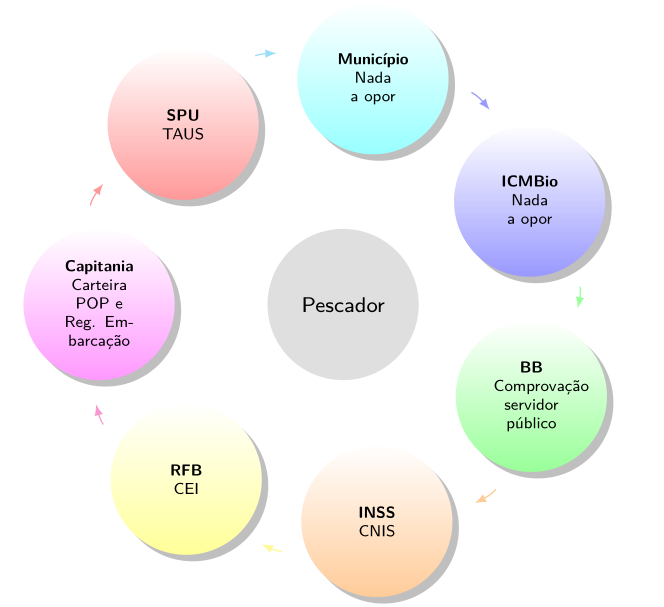
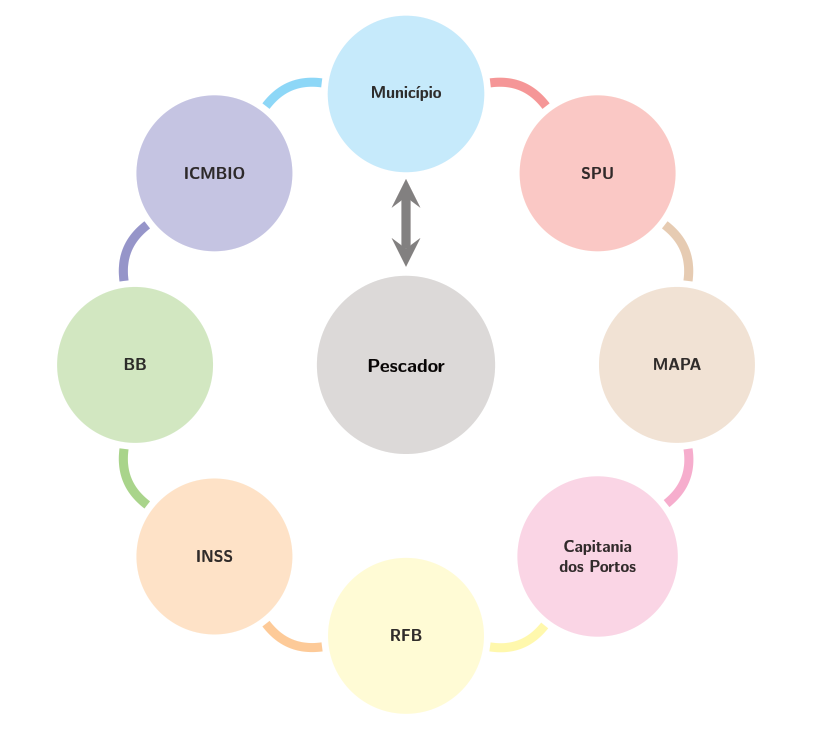
acrescentados novos diagramas aa apresentacao.

diff --git a/docs/index.html b/docs/index.html
@@ -185,13 +185,13 @@ class: center, middle
 
 ---
 
-## Atual - Pescador é responsável por requerer em cada órgão
+## Situação Atual - Pescador é responsável por requerer em cada órgão
 
 &lt;img src="Diagrama_atual.PNG" width="50%" style="display: block; margin: auto;" /&gt;
 
 ---
 
-## Ideal - Racionalização do processo envolvendo múltiplos atores institucionais
+## Situação Ideal - Racionalização do processo envolvendo múltiplos atores institucionais
 
 .pull-left[
 
@@ -354,7 +354,24 @@ if (window.HTMLWidgets) slideshow.on('afterShowSlide', function (slide) {
     }
     deleted = true;
   });
-})();</script>
+})();
+// adds .remark-code-has-line-highlighted class to <pre> parent elements
+// of code chunks containing highlighted lines with class .remark-code-line-highlighted
+(function(d) {
+  const hlines = d.querySelectorAll('.remark-code-line-highlighted');
+  const preParents = [];
+  const findPreParent = function(line, p = 0) {
+    if (p > 1) return null; // traverse up no further than grandparent
+    const el = line.parentElement;
+    return el.tagName === "PRE" ? el : findPreParent(el, ++p);
+  };
+
+  for (let line of hlines) {
+    let pre = findPreParent(line);
+    if (pre && !preParents.includes(pre)) preParents.push(pre);
+  }
+  preParents.forEach(p => p.classList.add("remark-code-has-line-highlighted"));
+})(document);</script>
 
 <script>
 (function() {
